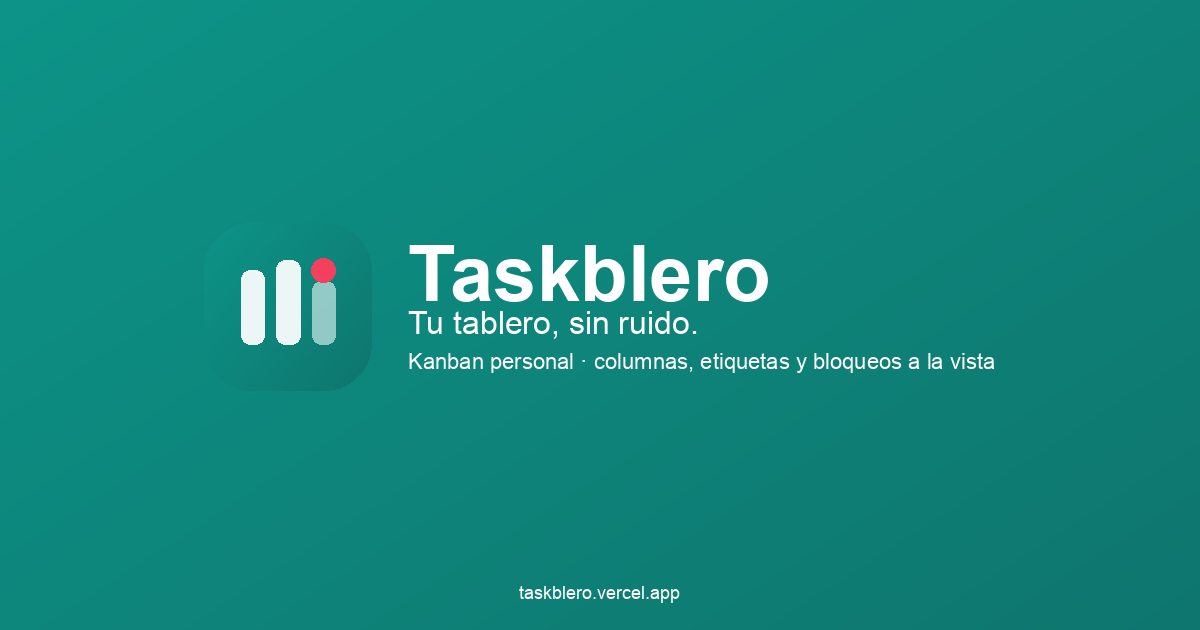
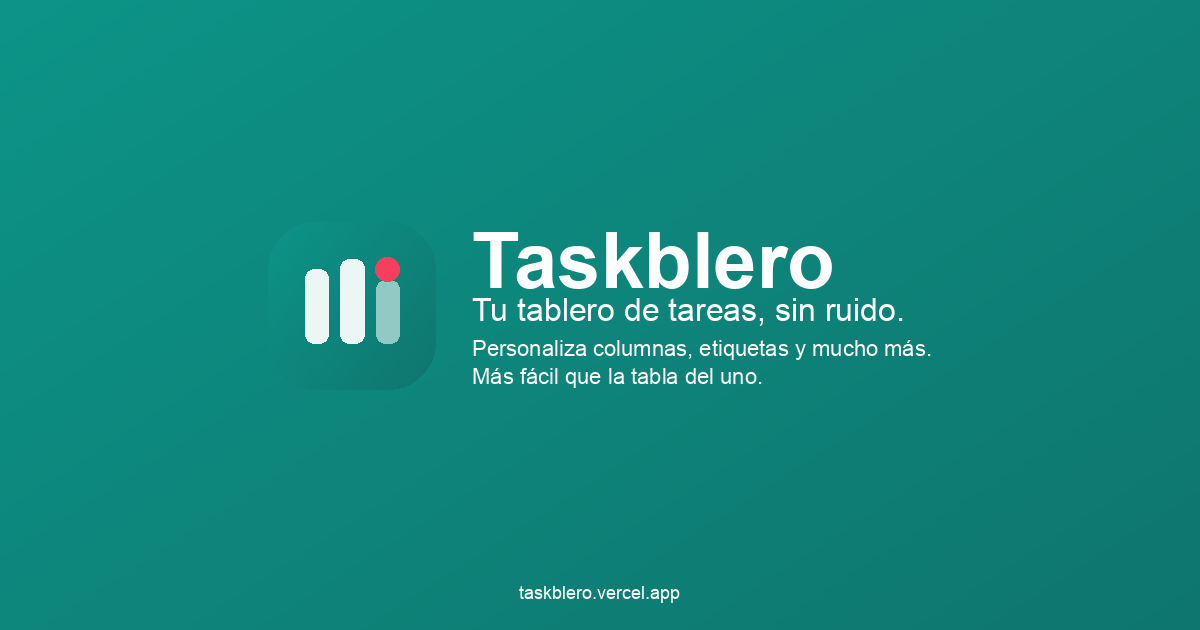
nueva descripción

Changed region(s): [[0.185, 0.3619, 0.8325, 0.6333]]

diff --git a/index.html b/index.html
@@ -10,7 +10,7 @@
     <meta name="theme-color" content="#0d9488" />
     <meta
       name="description"
-      content="Tu tablero Kanban, sin ruido. Columnas a tu medida, etiquetas y bloqueos a la vista."
+      content="Tu tablero de tareas, sin ruido. Personaliza columnas, etiquetas y mucho más. Más fácil que la tabla del uno."
     />
     <title>Taskblero</title>
     <link rel="canonical" href="https://taskblero.vercel.app/" />
@@ -21,23 +21,23 @@
     <meta property="og:title" content="Taskblero" />
     <meta
       property="og:description"
-      content="Tu tablero Kanban, sin ruido. Columnas a tu medida, etiquetas y bloqueos a la vista."
+      content="Tu tablero de tareas, sin ruido. Personaliza columnas, etiquetas y mucho más. Más fácil que la tabla del uno."
     />
     <meta property="og:url" content="https://taskblero.vercel.app/" />
     <meta property="og:image" content="https://taskblero.vercel.app/og-image.png" />
     <meta property="og:image:type" content="image/png" />
     <meta property="og:image:width" content="1200" />
     <meta property="og:image:height" content="630" />
-    <meta property="og:image:alt" content="Taskblero — tu tablero, sin ruido." />
+    <meta property="og:image:alt" content="Taskblero — tu tablero de tareas, sin ruido." />
 
     <meta name="twitter:card" content="summary_large_image" />
     <meta name="twitter:title" content="Taskblero" />
     <meta
       name="twitter:description"
-      content="Tu tablero Kanban, sin ruido. Columnas a tu medida, etiquetas y bloqueos a la vista."
+      content="Tu tablero de tareas, sin ruido. Personaliza columnas, etiquetas y mucho más. Más fácil que la tabla del uno."
     />
     <meta name="twitter:image" content="https://taskblero.vercel.app/og-image.png" />
-    <meta name="twitter:image:alt" content="Taskblero — tu tablero, sin ruido." />
+    <meta name="twitter:image:alt" content="Taskblero — tu tablero de tareas, sin ruido." />
 
     <link rel="stylesheet" href="/src/styles/theme.css" />
     <script src="/theme.js"></script>

diff --git a/src/brand.ts b/src/brand.ts
@@ -4,6 +4,6 @@ export const BRAND_NAME = 'Taskblero';
 export const BRAND_TAGLINE = 'Tu tablero, sin ruido.';
 
 export const BRAND_DESCRIPTION =
-  'Tu tablero Kanban, sin ruido. Columnas a tu medida, etiquetas y bloqueos a la vista.';
+  'Tu tablero de tareas, sin ruido. Personaliza columnas, etiquetas y mucho más. Más fácil que la tabla del uno.';
 
 export const BRAND_URL = 'https://taskblero.vercel.app';

diff --git a/scripts/generate-og-assets.py b/scripts/generate-og-assets.py
@@ -72,31 +72,37 @@ def write_og(path: Path) -> None:
     url_font = ImageFont.truetype(FONT_REG, 18)
 
     title = "Taskblero"
-    tagline = "Tu tablero, sin ruido."
-    sub = "Kanban personal · columnas, etiquetas y bloqueos a la vista"
+    tagline = "Tu tablero de tareas, sin ruido."
+    sub_lines = (
+        "Personaliza columnas, etiquetas y mucho más.",
+        "Más fácil que la tabla del uno.",
+    )
 
     scratch = ImageDraw.Draw(canvas)
     title_box = scratch.textbbox((0, 0), title, font=title_font)
     tag_box = scratch.textbbox((0, 0), tagline, font=tag_font)
-    sub_box = scratch.textbbox((0, 0), sub, font=sub_font)
+    sub_boxes = [scratch.textbbox((0, 0), line, font=sub_font) for line in sub_lines]
     title_w, title_h = title_box[2] - title_box[0], title_box[3] - title_box[1]
     tag_w = tag_box[2] - tag_box[0]
-    sub_w = sub_box[2] - sub_box[0]
+    sub_w = max(box[2] - box[0] for box in sub_boxes)
     text_w = max(title_w, tag_w, sub_w)
     gap = 36
+    text_block_h = title_h + 18 + 36 + 16 + 26 * len(sub_lines)
     group_w = mark.width + gap + text_w
-    group_h = max(mark.height, title_h + 18 + 36 + 16 + 26)
+    group_h = max(mark.height, text_block_h)
     gx = (w - group_w) // 2
     gy = (h - group_h) // 2 - 8
 
     canvas.paste(mark, (gx, gy + (group_h - mark.height) // 2), mark)
 
     tx = gx + mark.width + gap
-    ty = gy + (group_h - (title_h + 18 + 36 + 16 + 26)) // 2
+    ty = gy + (group_h - text_block_h) // 2
     d = ImageDraw.Draw(canvas)
     d.text((tx, ty), title, font=title_font, fill=WHITE)
     d.text((tx, ty + title_h + 18), tagline, font=tag_font, fill=(255, 255, 255, 220))
-    d.text((tx, ty + title_h + 18 + 44), sub, font=sub_font, fill=(255, 255, 255, 170))
+    sub_y = ty + title_h + 18 + 44
+    for i, line in enumerate(sub_lines):
+        d.text((tx, sub_y + i * 28), line, font=sub_font, fill=(255, 255, 255, 170))
     url = "taskblero.vercel.app"
     url_box = d.textbbox((0, 0), url, font=url_font)
     uw = url_box[2] - url_box[0]
